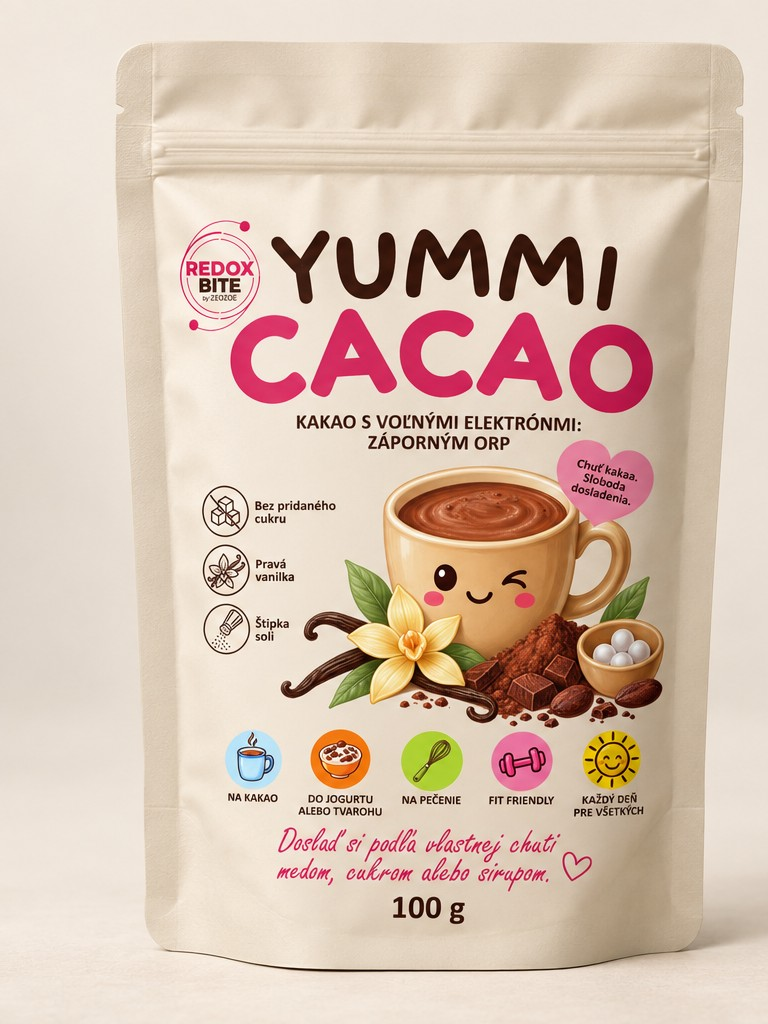
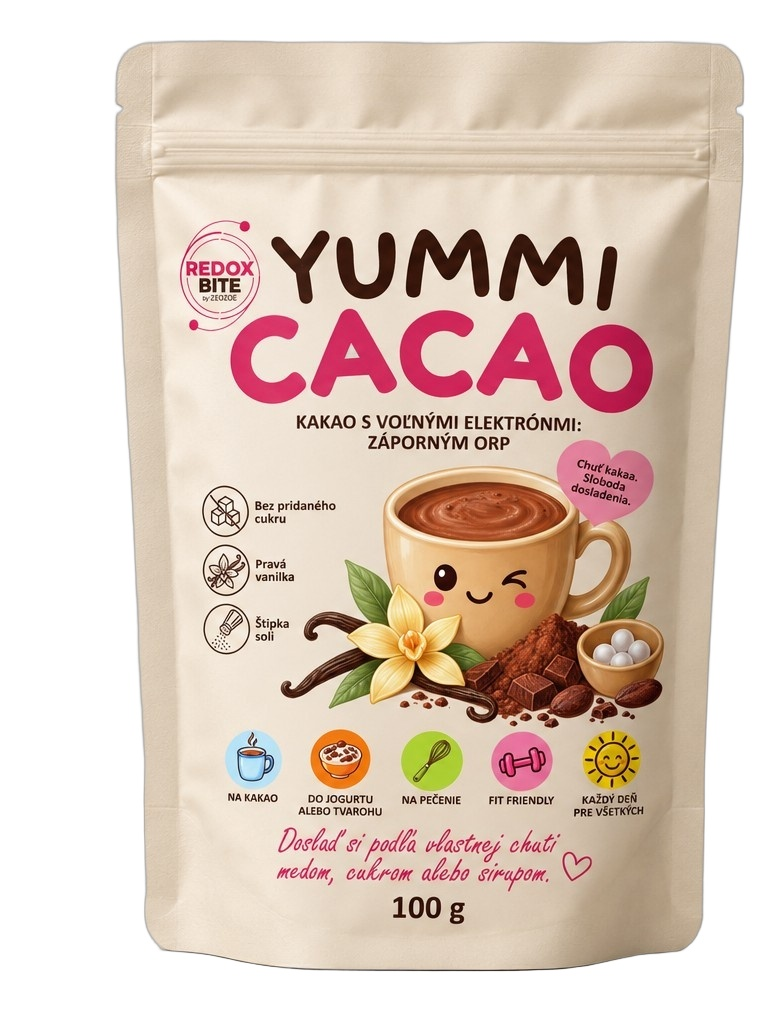
Whitened YUMMI CACAO product photo backgrounds to pure white.

diff --git a/index.html b/index.html
@@ -143,7 +143,7 @@
           <article class="product-card">
             <span class="product-badge" data-i18n="badgeNew">Novinka</span>
             <div class="product-image-wrap product-image-wrap--contain">
-              <img src="assets/yummi-cacao-classic-front.jpg" alt="REDOX BITE YUMMI CACAO v béžovom doypack balení 100 g" class="product-image" loading="lazy" data-i18n-alt="ycFrontAlt">
+              <img src="assets/yummi-cacao-classic-front.jpg?v=2" alt="REDOX BITE YUMMI CACAO v béžovom doypack balení 100 g" class="product-image" loading="lazy" data-i18n-alt="ycFrontAlt">
             </div>
             <h3 data-i18n="ycCardTitle">REDOX BITE YUMMI CACAO</h3>
             <p class="product-desc" data-i18n="ycCardDesc">Kakao novej generácie s pravou vanilkou, bez pridaného cukru a s merateľným záporným ORP. Do nápojov, kaší aj na pečenie. 100 g.</p>
@@ -158,7 +158,7 @@
           <article class="product-card">
             <span class="product-badge" data-i18n="badgeNew">Novinka</span>
             <div class="product-image-wrap product-image-wrap--contain">
-              <img src="assets/yummi-cacao-pomaranc-front.jpg" alt="REDOX BITE YUMMI CACAO s pomarančom v čiernom doypack balení 100 g" class="product-image" loading="lazy" data-i18n-alt="cacaoFrontAlt">
+              <img src="assets/yummi-cacao-pomaranc-front.jpg?v=2" alt="REDOX BITE YUMMI CACAO s pomarančom v čiernom doypack balení 100 g" class="product-image" loading="lazy" data-i18n-alt="cacaoFrontAlt">
             </div>
             <h3 data-i18n="cacaoCardTitle">REDOX BITE YUMMI CACAO Pomaranč</h3>
             <p class="product-desc" data-i18n="cacaoCardDesc">Prémiová kakaová zmes s pomarančom, pravou vanilkou a bez pridaného cukru. Na horúce kakao, smoothie, jogurt, tvaroh aj pečenie. 100 g.</p>

diff --git a/yummi-cacao-pomaranc-kakao-bez-pridaneho-cukru/index.html b/yummi-cacao-pomaranc-kakao-bez-pridaneho-cukru/index.html
@@ -145,7 +145,7 @@
           <div class="pdp__gallery">
             <figure class="pdp__shot">
               <img
-                src="../assets/yummi-cacao-pomaranc-front.jpg"
+                src="../assets/yummi-cacao-pomaranc-front.jpg?v=2"
                 alt="REDOX BITE YUMMI CACAO s pomarančom v čiernom doypack balení 100 g"
                 data-i18n-alt="cacaoFrontAlt"
                 width="771"
@@ -154,7 +154,7 @@
             </figure>
             <figure class="pdp__shot">
               <img
-                src="../assets/yummi-cacao-pomaranc-back.jpg"
+                src="../assets/yummi-cacao-pomaranc-back.jpg?v=2"
                 alt="Zadná strana balenia YUMMI CACAO Pomaranč so zložením, použitím a výživovými údajmi"
                 data-i18n-alt="cacaoBackAlt"
                 width="771"

diff --git a/yummi-cacao-kakao-bez-pridaneho-cukru/index.html b/yummi-cacao-kakao-bez-pridaneho-cukru/index.html
@@ -108,7 +108,7 @@
           <div class="pdp__gallery">
             <figure class="pdp__shot">
               <img
-                src="../assets/yummi-cacao-classic-front.jpg"
+                src="../assets/yummi-cacao-classic-front.jpg?v=2"
                 alt="REDOX BITE YUMMI CACAO v béžovom doypack balení 100 g"
                 data-i18n-alt="ycFrontAlt"
                 width="768"
@@ -117,7 +117,7 @@
             </figure>
             <figure class="pdp__shot">
               <img
-                src="../assets/yummi-cacao-classic-back.jpg"
+                src="../assets/yummi-cacao-classic-back.jpg?v=2"
                 alt="Zadná strana balenia YUMMI CACAO so zložením, použitím a výživovými údajmi"
                 data-i18n-alt="ycBackAlt"
                 width="512"
